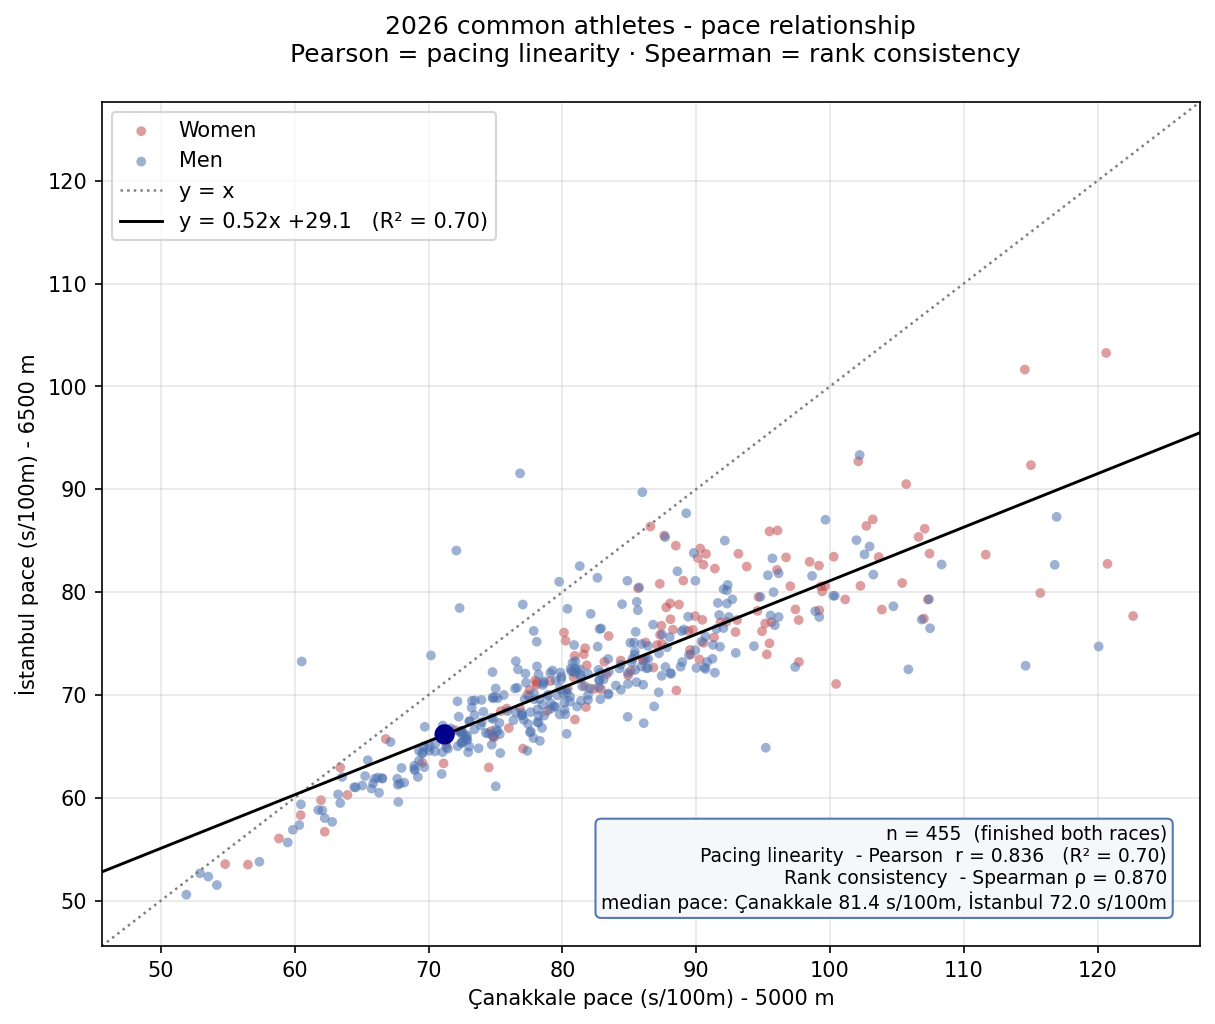
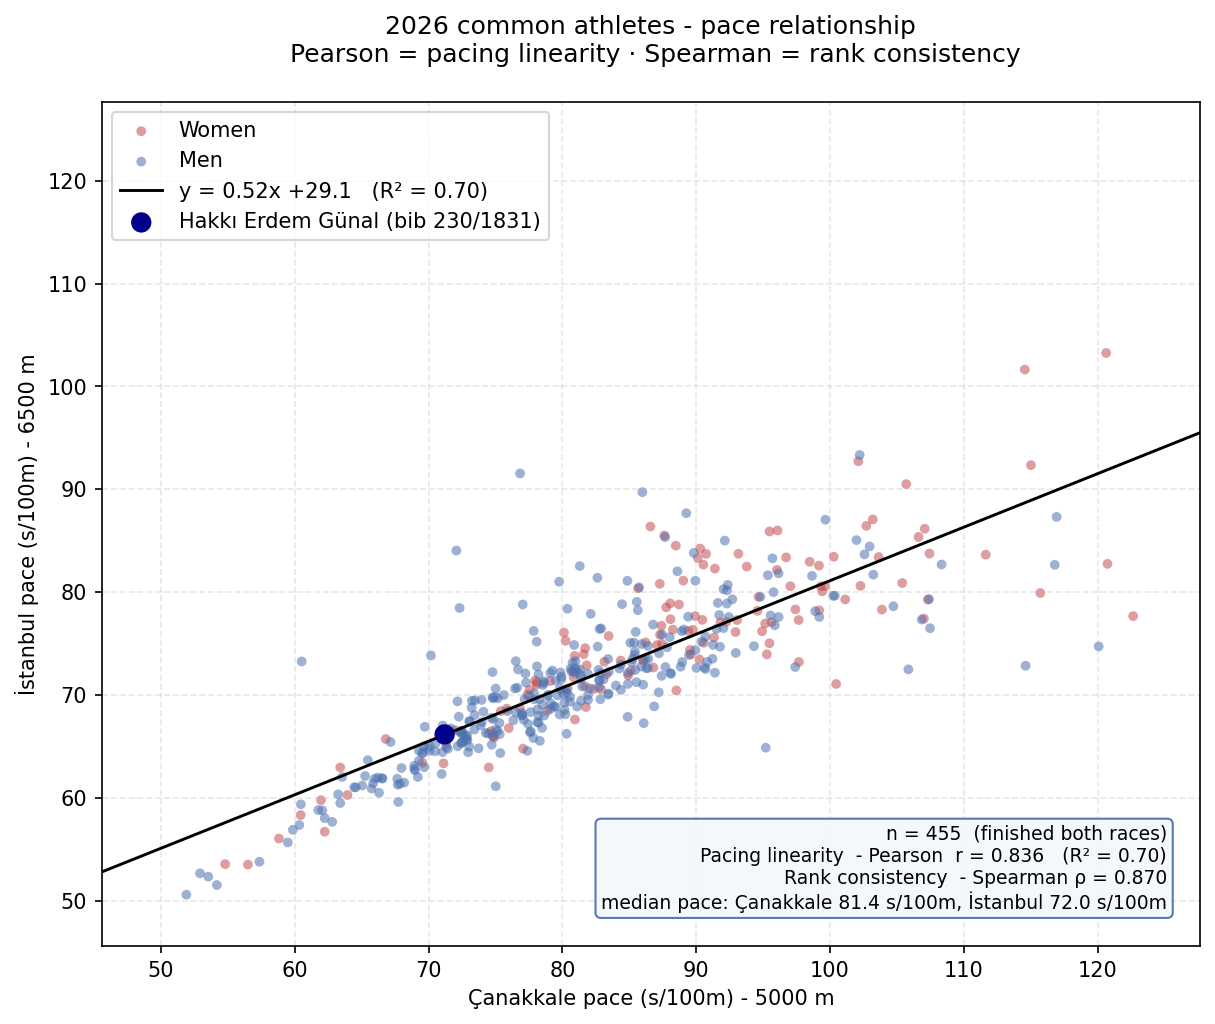
refactor(charts): centralized grid styling and highlight legend label

Changed region(s): [[0.1523, 0.1562, 0.4568, 0.25], [0.0914, 0.1875, 0.1218, 0.25]]

diff --git a/2026/common_2026_charts.py b/2026/common_2026_charts.py
@@ -4,7 +4,7 @@ from __future__ import annotations
 Çıktılar:
   2026/output/canakkale_vs_istanbul_common_pace.png -> tempo korelasyon grafiği
      (sahibin noktası bib 230 / bib 1831 - Hakkı Erdem Günal, M, 2004 -
-     koyu kalın mavi nokta ile vurgulanır)
+     koyu kalın mavi nokta ile vurgulanır ve legendde adı + bib ile geçer)
   2026/output/age_group_kruskal_wallis.png  -> yaş grubu x tempo + K-W testi
 
 Veri, common_2026_dataset modülündeki load_common() ile HAM datasetlerden
@@ -37,6 +37,12 @@ from matplotlib.colors import to_rgba
 from matplotlib.patches import Patch
 
 from common_2026_dataset import load_common
+
+matplotlib.rcParams.update({
+    "axes.grid": True,
+    "grid.alpha": 0.3,
+    "grid.linestyle": "--",
+})
 
 BASE_DIR = Path(__file__).resolve().parent
 OUT_DIR = BASE_DIR / "output"
@@ -207,8 +213,6 @@ def _save_chart(fin, can_cfg, ist_cfg, show):
         ax.scatter(grp["pace_canakkale_s100m"], grp["pace_istanbul_s100m"], s=22, alpha=0.55, edgecolors="none", color=colors.get(g, "#55A868"), label={"M": "Men", "F": "Women"}.get(g, g))
 
     lim = (min(x.min(), y.min()) - 5, max(x.max(), y.max()) + 5)
-    ax.plot(lim, lim, ":", color="gray", lw=1.2,
-            label="y = x")
     if len(fin) >= 2:
         b, a = np.polyfit(x, y, 1)
         xs = np.linspace(*lim, 100)
@@ -218,9 +222,12 @@ def _save_chart(fin, can_cfg, ist_cfg, show):
     if hl is not None:
         hx = float(hl["pace_canakkale_s100m"])
         hy = float(hl["pace_istanbul_s100m"])
-        ax.scatter([hx], [hy], s=95, color="#00008B", edgecolors="none", alpha=1.0, zorder=7)
-        print(f"  Grafikte koyu kalın mavi vurgulanan: "
-              f"{hl['full_name_canakkale'] or hl['full_name_istanbul']} "
+        hl_name = str(hl["full_name_canakkale"] or hl["full_name_istanbul"]).strip()
+        hl_bibs = (f"bib {int(can_cfg.default_bib)}/"
+                   f"{int(ist_cfg.default_bib)}")
+        ax.scatter([hx], [hy], s=95, color="#00008B", edgecolors="none",
+                   alpha=1.0, zorder=7, label=f"{hl_name} ({hl_bibs})")
+        print(f"  Grafikte koyu kalın mavi vurgulanan: {hl_name} "
               f"(Çanakkale bib {int(can_cfg.default_bib)}, "
               f"İstanbul bib {int(ist_cfg.default_bib)})")
 
@@ -237,7 +244,6 @@ def _save_chart(fin, can_cfg, ist_cfg, show):
     ax.set_ylabel(f"İstanbul pace (s/100m) - {ist_cfg.distance_m:g} m")
     ax.set_title("2026 common athletes - pace relationship\n Pearson = pacing linearity · Spearman = rank consistency\n")
     ax.legend(loc="upper left", frameon=True)
-    ax.grid(True, alpha=0.3)
     fig.tight_layout()
 
     if show:
@@ -344,7 +350,6 @@ def _save_agegroup_chart(df, show):
             ax.set_xticks(ticks)
             ax.set_xticklabels(labels, fontsize=8)
             ax.set_ylim(ymin, ymax)
-            ax.grid(True, axis="y", alpha=0.3)
 
             if len(groups) >= 2:
                 H, dfree, p = _kruskal_wallis(groups)
